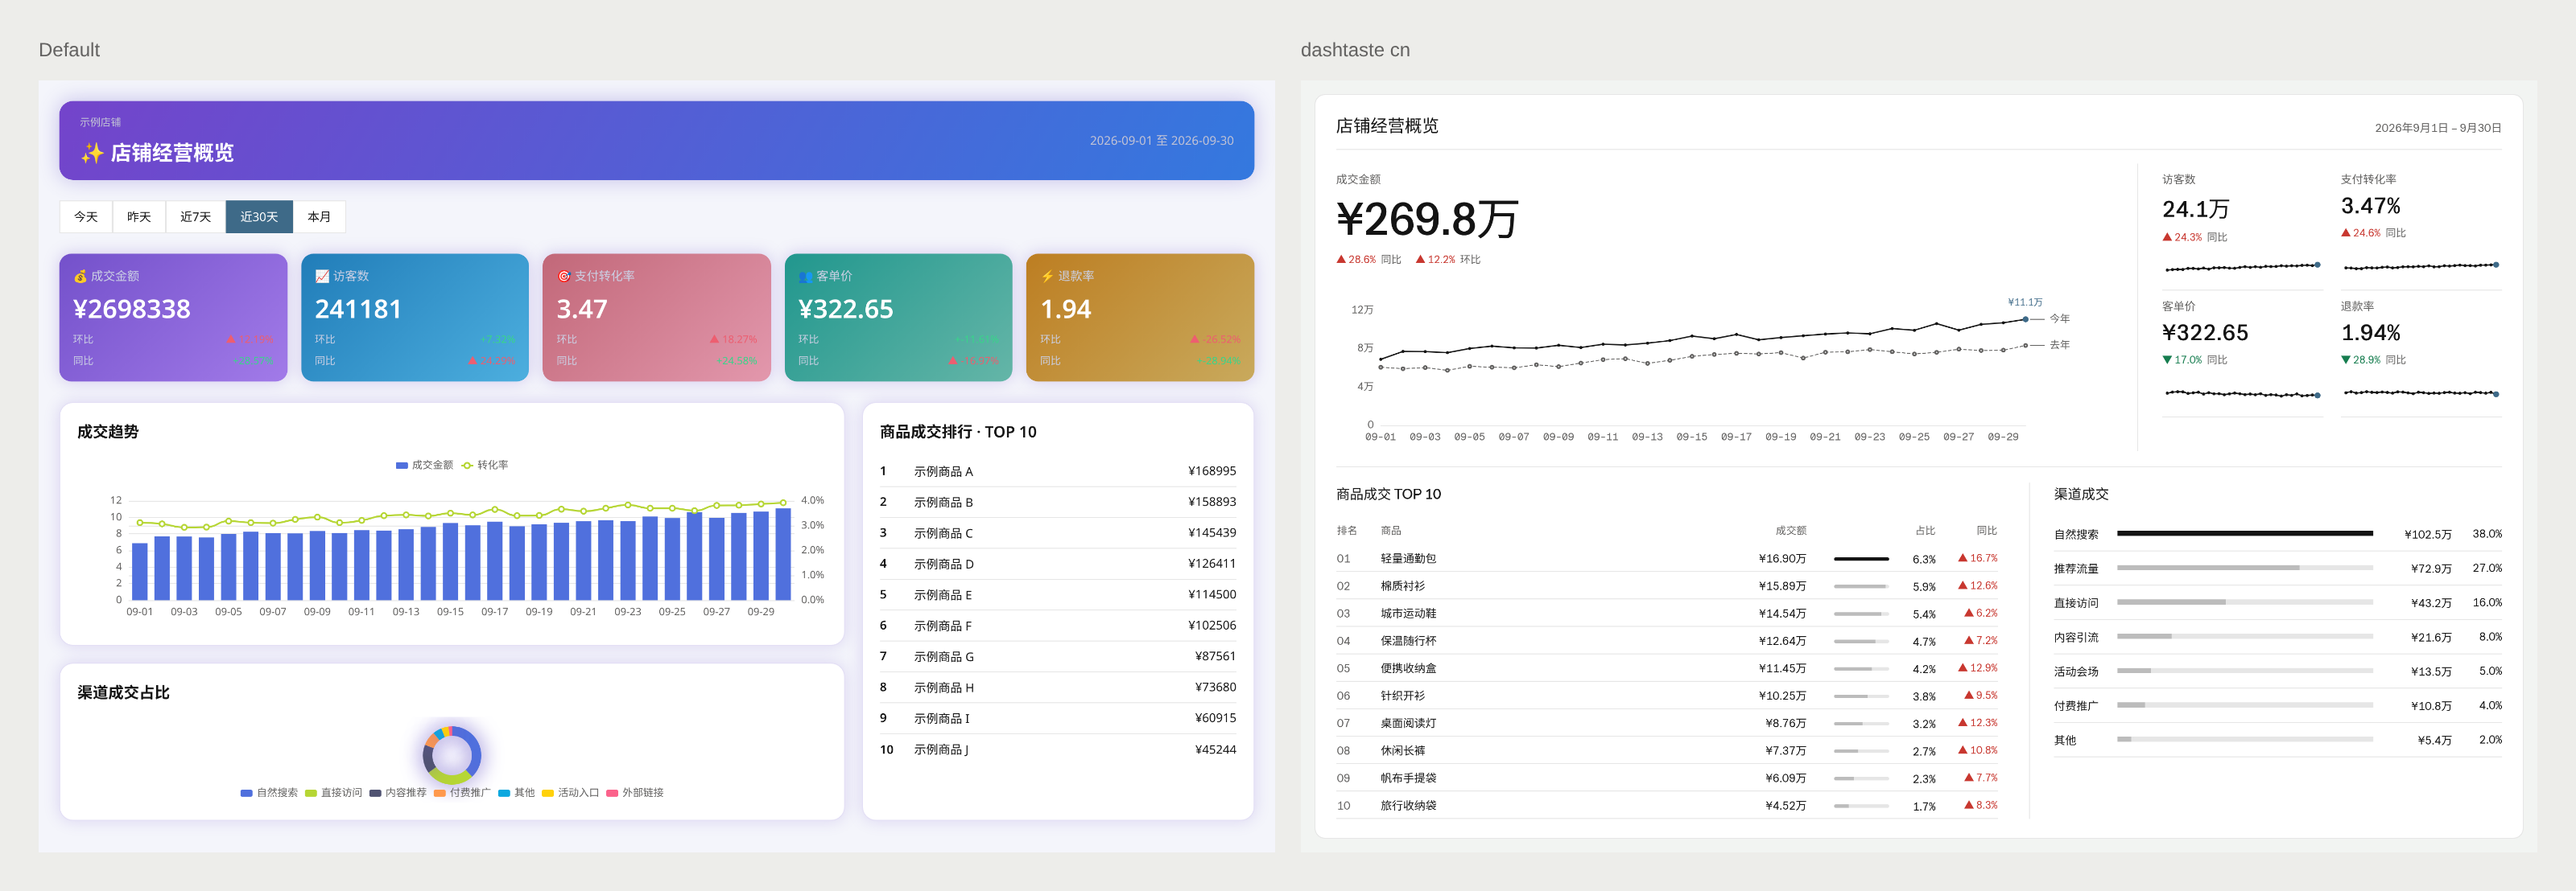
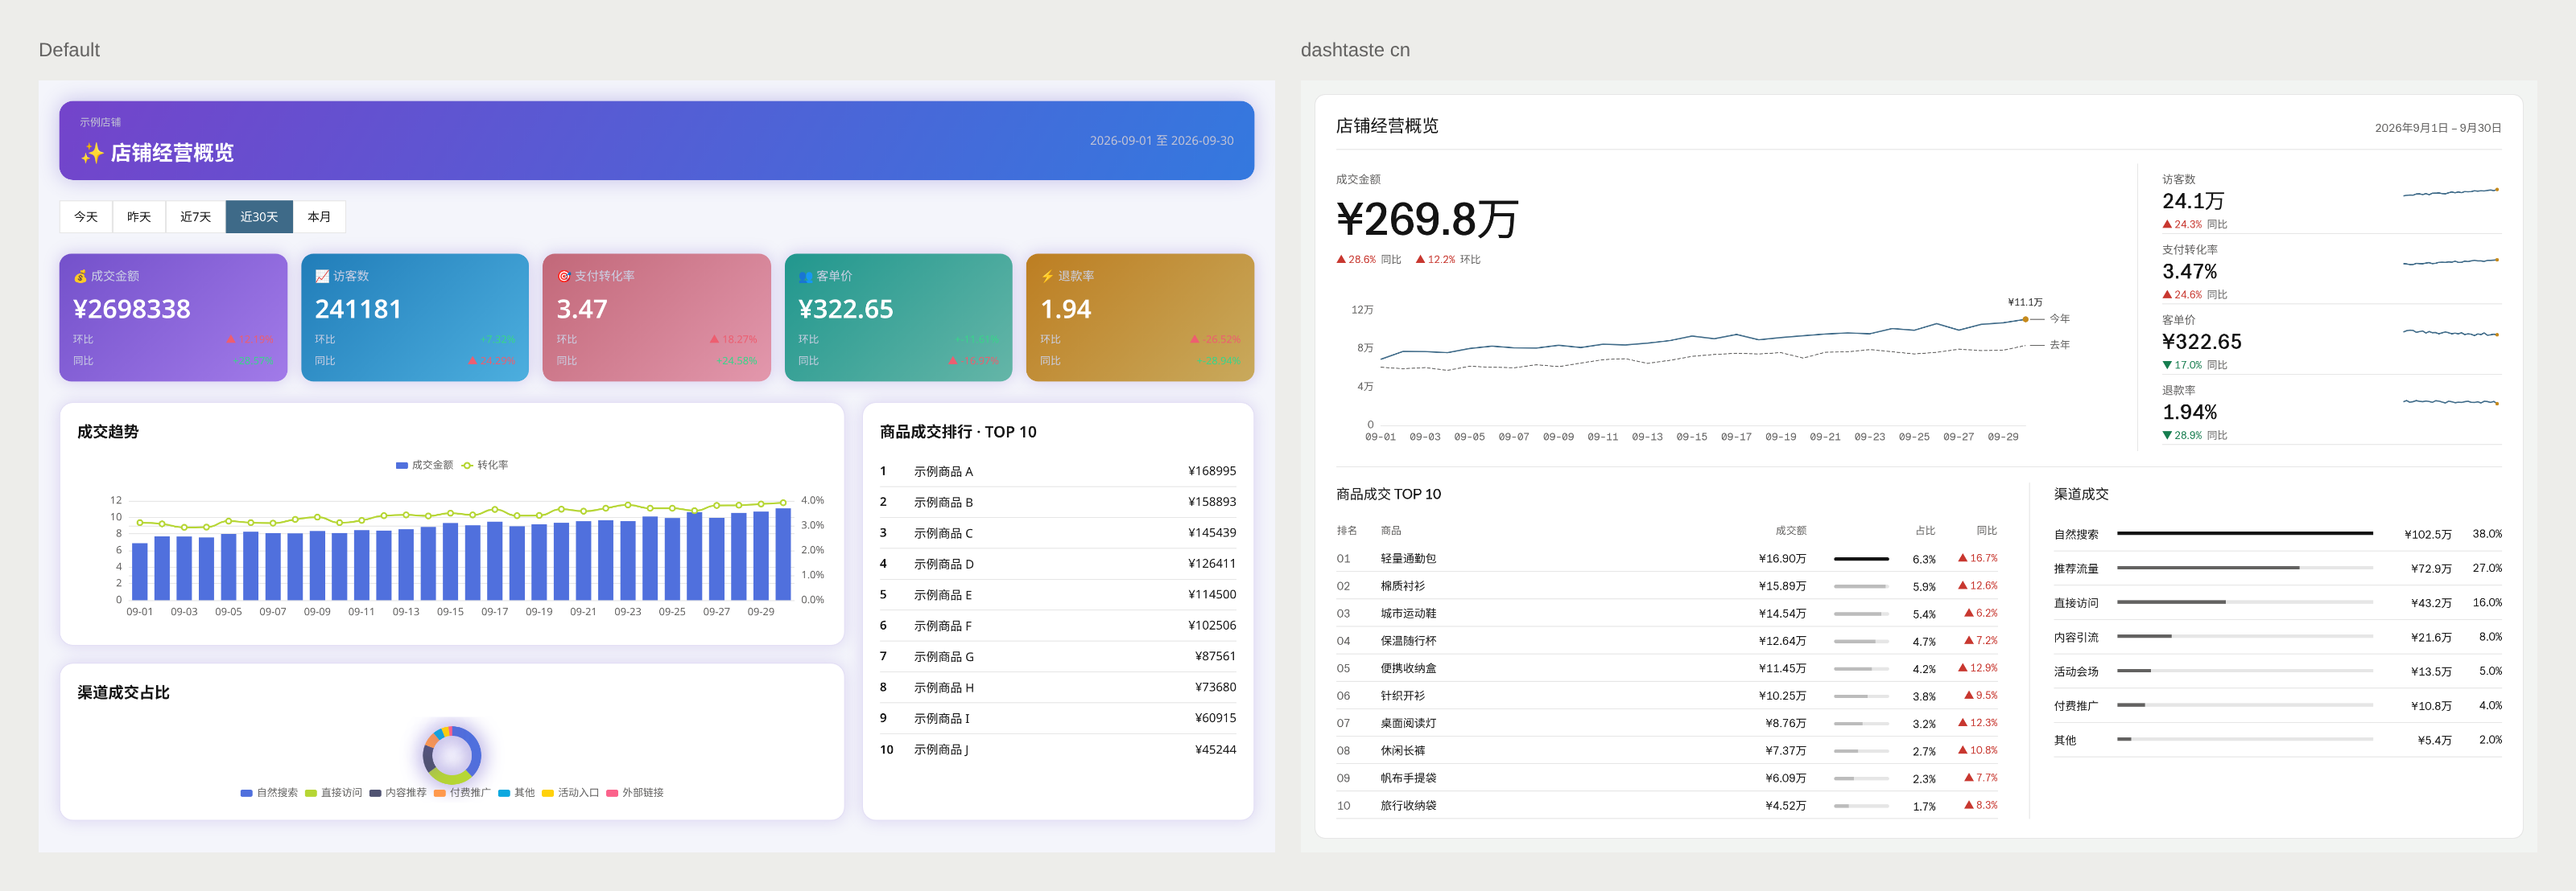
Lighter bars, plain sparklines, cn warm accent mark, store rail as list

diff --git a/test/packs.test.ts b/test/packs.test.ts
@@ -33,3 +33,13 @@ for (const mode of ['light', 'dark'] as const)
         distance(simulatedLab(t.brand, matrix), simulatedLab(t.down, matrix)),
       ).toBeGreaterThanOrEqual(0.08);
     });
+
+for (const mode of ['light', 'dark'] as const)
+  for (const [vision, matrix] of Object.entries(matrices))
+    it(`cn ${mode} ${vision} accent differs from delta colours`, () => {
+      const t = packs.cn[mode];
+      for (const delta of [t.up, t.down])
+        expect(
+          distance(simulatedLab(t.accent as string, matrix), simulatedLab(delta, matrix)),
+        ).toBeGreaterThanOrEqual(0.08);
+    });

diff --git a/src/packs/cn.ts b/src/packs/cn.ts
@@ -28,6 +28,7 @@ export const cn: Pack = {
     strong: '#DDDDDD',
     primary: '#141414',
     brand: '#3E6A88',
+    accent: '#C68A1C',
     up: '#C8372F',
     down: '#167D4F',
     flat: '#636261',
@@ -45,6 +46,7 @@ export const cn: Pack = {
     hairline: '#2A2926',
     strong: '#484843',
     brand: '#74ABD0',
+    accent: '#E8B657',
     up: '#DB655C',
     down: '#73B78E',
     flat: '#959590',

diff --git a/skills/dashtaste-cn/references/tokens.md b/skills/dashtaste-cn/references/tokens.md
@@ -16,6 +16,7 @@ Ink and muted are text colours. Subtle and hairlines are decorative.
 | light.strong        | #DDDDDD |
 | light.primary       | #141414 |
 | light.brand         | #3E6A88 |
+| light.accent        | #C68A1C |
 | light.up            | #C8372F |
 | light.down          | #167D4F |
 | light.flat          | #636261 |
@@ -44,6 +45,7 @@ Ink and muted are text colours. Subtle and hairlines are decorative.
 | dark.hairline      | #2A2926 |
 | dark.strong        | #484843 |
 | dark.brand         | #74ABD0 |
+| dark.accent        | #E8B657 |
 | dark.up            | #DB655C |
 | dark.down          | #73B78E |
 | dark.flat          | #959590 |
@@ -64,5 +66,7 @@ One hero anchors the page; all other numbers remain subordinate.
 
 Use the mono face for Latin ticks and table headers: 11px, 0.06em tracking.
 Keep CJK in the CJK face at 12px or larger, 16px on screens.
-The brand token is a chart accent reserved for exactly one mark and its value label.
+The accent token marks only the latest point of the main trend and sparkline end dots.
+Its value label stays ink. The brand token supplies steel data strokes in light mode.
+Red and green are reserved for deltas.
 Paper and ink define the main surfaces and data strokes.
